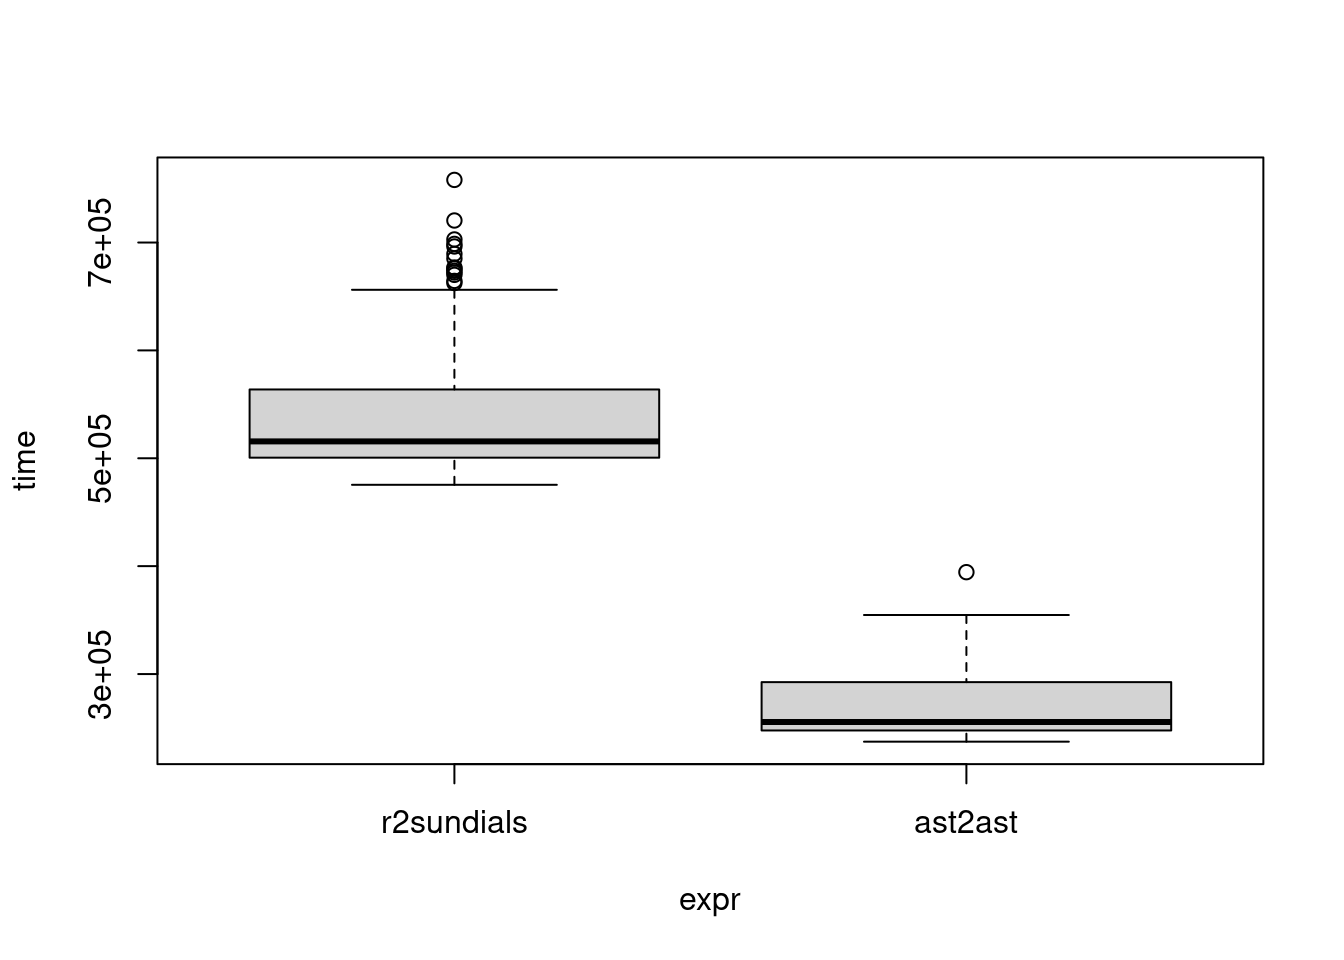
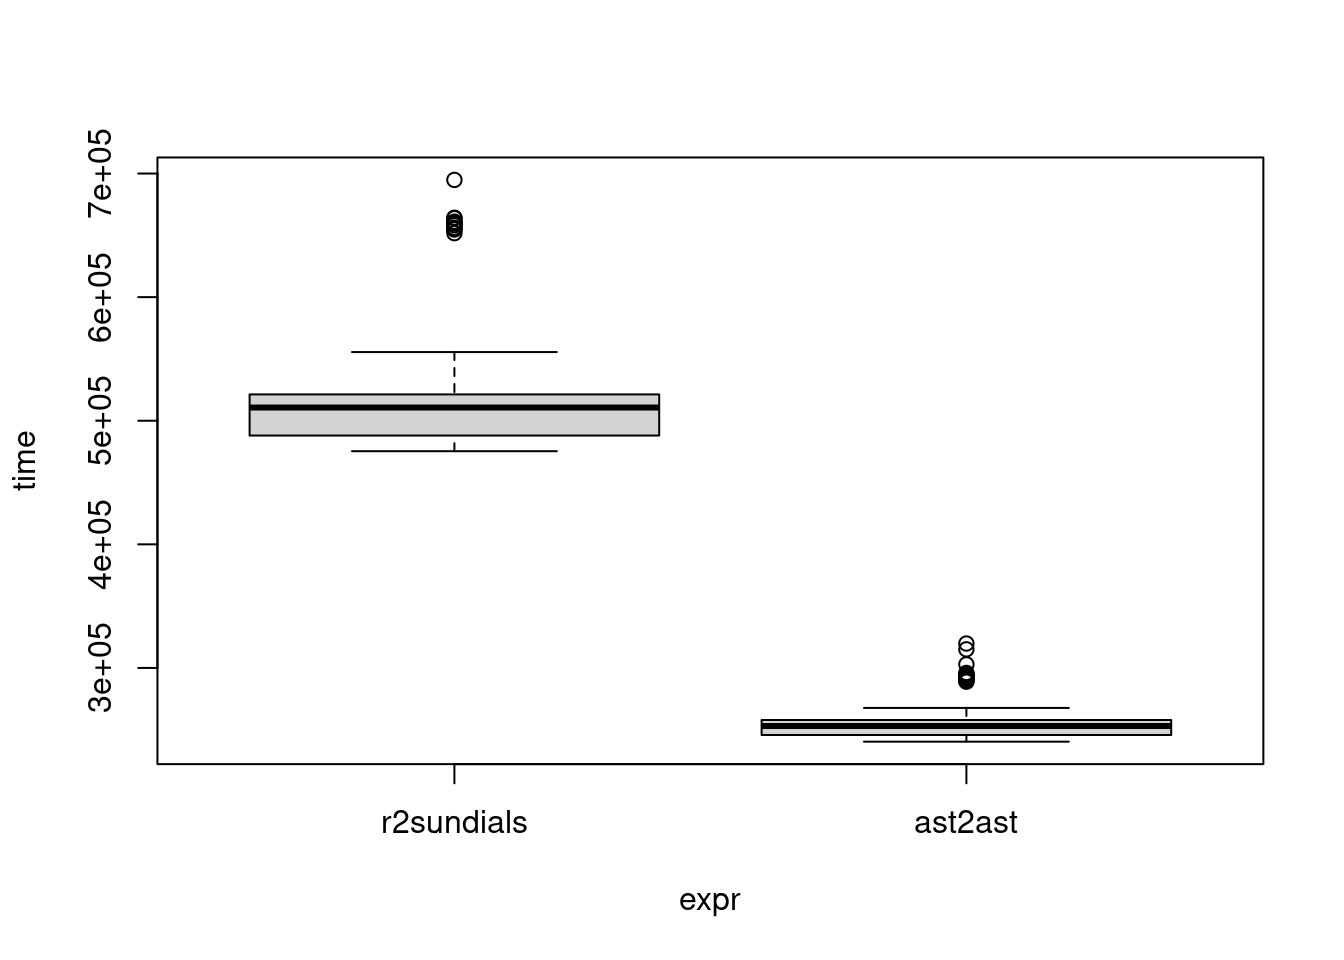
update r2sundials

diff --git a/docs/r2sundials.html b/docs/r2sundials.html
@@ -109,7 +109,7 @@ pre > code.sourceCode > span > a:first-child::before { text-decoration: underlin
 <span id="cb1-10"><a href="#cb1-10" aria-hidden="true" tabindex="-1"></a>odecpp <span class="ot">&lt;-</span> <span class="fu">R2cpp</span>(ode)</span></code><button title="Copy to Clipboard" class="code-copy-button"><i class="bi"></i></button></pre></div>
 </details>
 </div>
-<p>In this code, we first load the <code>translate.R</code> script, which contains the <code>R2cpp</code> function from the <code>ast2ast</code> package. Then we define the time points at which we want to solve the ODE, the initial condition, and the parameter ‘a’. The ODE system is defined in the <code>ode</code> function, which is then translated to C++ code using <code>R2cpp</code>.</p>
+<p>In this code, we first load the <code>translate.R</code> script, which contains the <code>R2cpp</code> function from the <code>ast2ast</code> package. Then we define the time points at which we want to solve the ODE, the initial condition, and the parameter ‘a’. The ODE system is defined in the <code>ode</code> function, which is then translated to C++ code using <code>ast2ast</code>.</p>
 </section>
 <section id="solving-the-ode-system" class="level2">
 <h2 class="anchored" data-anchor-id="solving-the-ode-system">Solving the ODE System</h2>
@@ -149,9 +149,9 @@ pre > code.sourceCode > span > a:first-child::before { text-decoration: underlin
 </details>
 <div class="cell-output cell-output-stdout">
 <pre><code>Unit: microseconds
-       expr     min       lq     mean   median       uq     max neval cld
- r2sundials 475.412 500.5390 546.0102 515.6520 563.7665 758.022   100  a 
-    ast2ast 237.305 247.7145 269.5846 255.5445 292.5085 394.439   100   b</code></pre>
+       expr     min       lq     mean  median       uq     max neval cld
+ r2sundials 475.372 488.0205 523.6371 510.698 521.2880 694.813   100  a 
+    ast2ast 240.361 245.7560 257.1344 253.055 257.8935 319.779   100   b</code></pre>
 </div>
 <details>
 <summary>Code</summary>

diff --git a/r2sundials/r2sundials.html b/r2sundials/r2sundials.html
@@ -109,7 +109,7 @@ pre > code.sourceCode > span > a:first-child::before { text-decoration: underlin
 <span id="cb1-10"><a href="#cb1-10" aria-hidden="true" tabindex="-1"></a>odecpp <span class="ot">&lt;-</span> <span class="fu">R2cpp</span>(ode)</span></code><button title="Copy to Clipboard" class="code-copy-button"><i class="bi"></i></button></pre></div>
 </details>
 </div>
-<p>In this code, we first load the <code>translate.R</code> script, which contains the <code>R2cpp</code> function from the <code>ast2ast</code> package. Then we define the time points at which we want to solve the ODE, the initial condition, and the parameter ‘a’. The ODE system is defined in the <code>ode</code> function, which is then translated to C++ code using <code>R2cpp</code>.</p>
+<p>In this code, we first load the <code>translate.R</code> script, which contains the <code>R2cpp</code> function from the <code>ast2ast</code> package. Then we define the time points at which we want to solve the ODE, the initial condition, and the parameter ‘a’. The ODE system is defined in the <code>ode</code> function, which is then translated to C++ code using <code>ast2ast</code>.</p>
 </section>
 <section id="solving-the-ode-system" class="level2">
 <h2 class="anchored" data-anchor-id="solving-the-ode-system">Solving the ODE System</h2>
@@ -149,9 +149,9 @@ pre > code.sourceCode > span > a:first-child::before { text-decoration: underlin
 </details>
 <div class="cell-output cell-output-stdout">
 <pre><code>Unit: microseconds
-       expr     min      lq     mean  median       uq     max neval cld
- r2sundials 477.245 489.132 526.6372 508.889 524.3035 706.756   100  a 
-    ast2ast 237.726 244.448 257.2086 251.817 259.6820 370.505   100   b</code></pre>
+       expr     min       lq     mean  median       uq     max neval cld
+ r2sundials 475.372 488.0205 523.6371 510.698 521.2880 694.813   100  a 
+    ast2ast 240.361 245.7560 257.1344 253.055 257.8935 319.779   100   b</code></pre>
 </div>
 <details>
 <summary>Code</summary>
